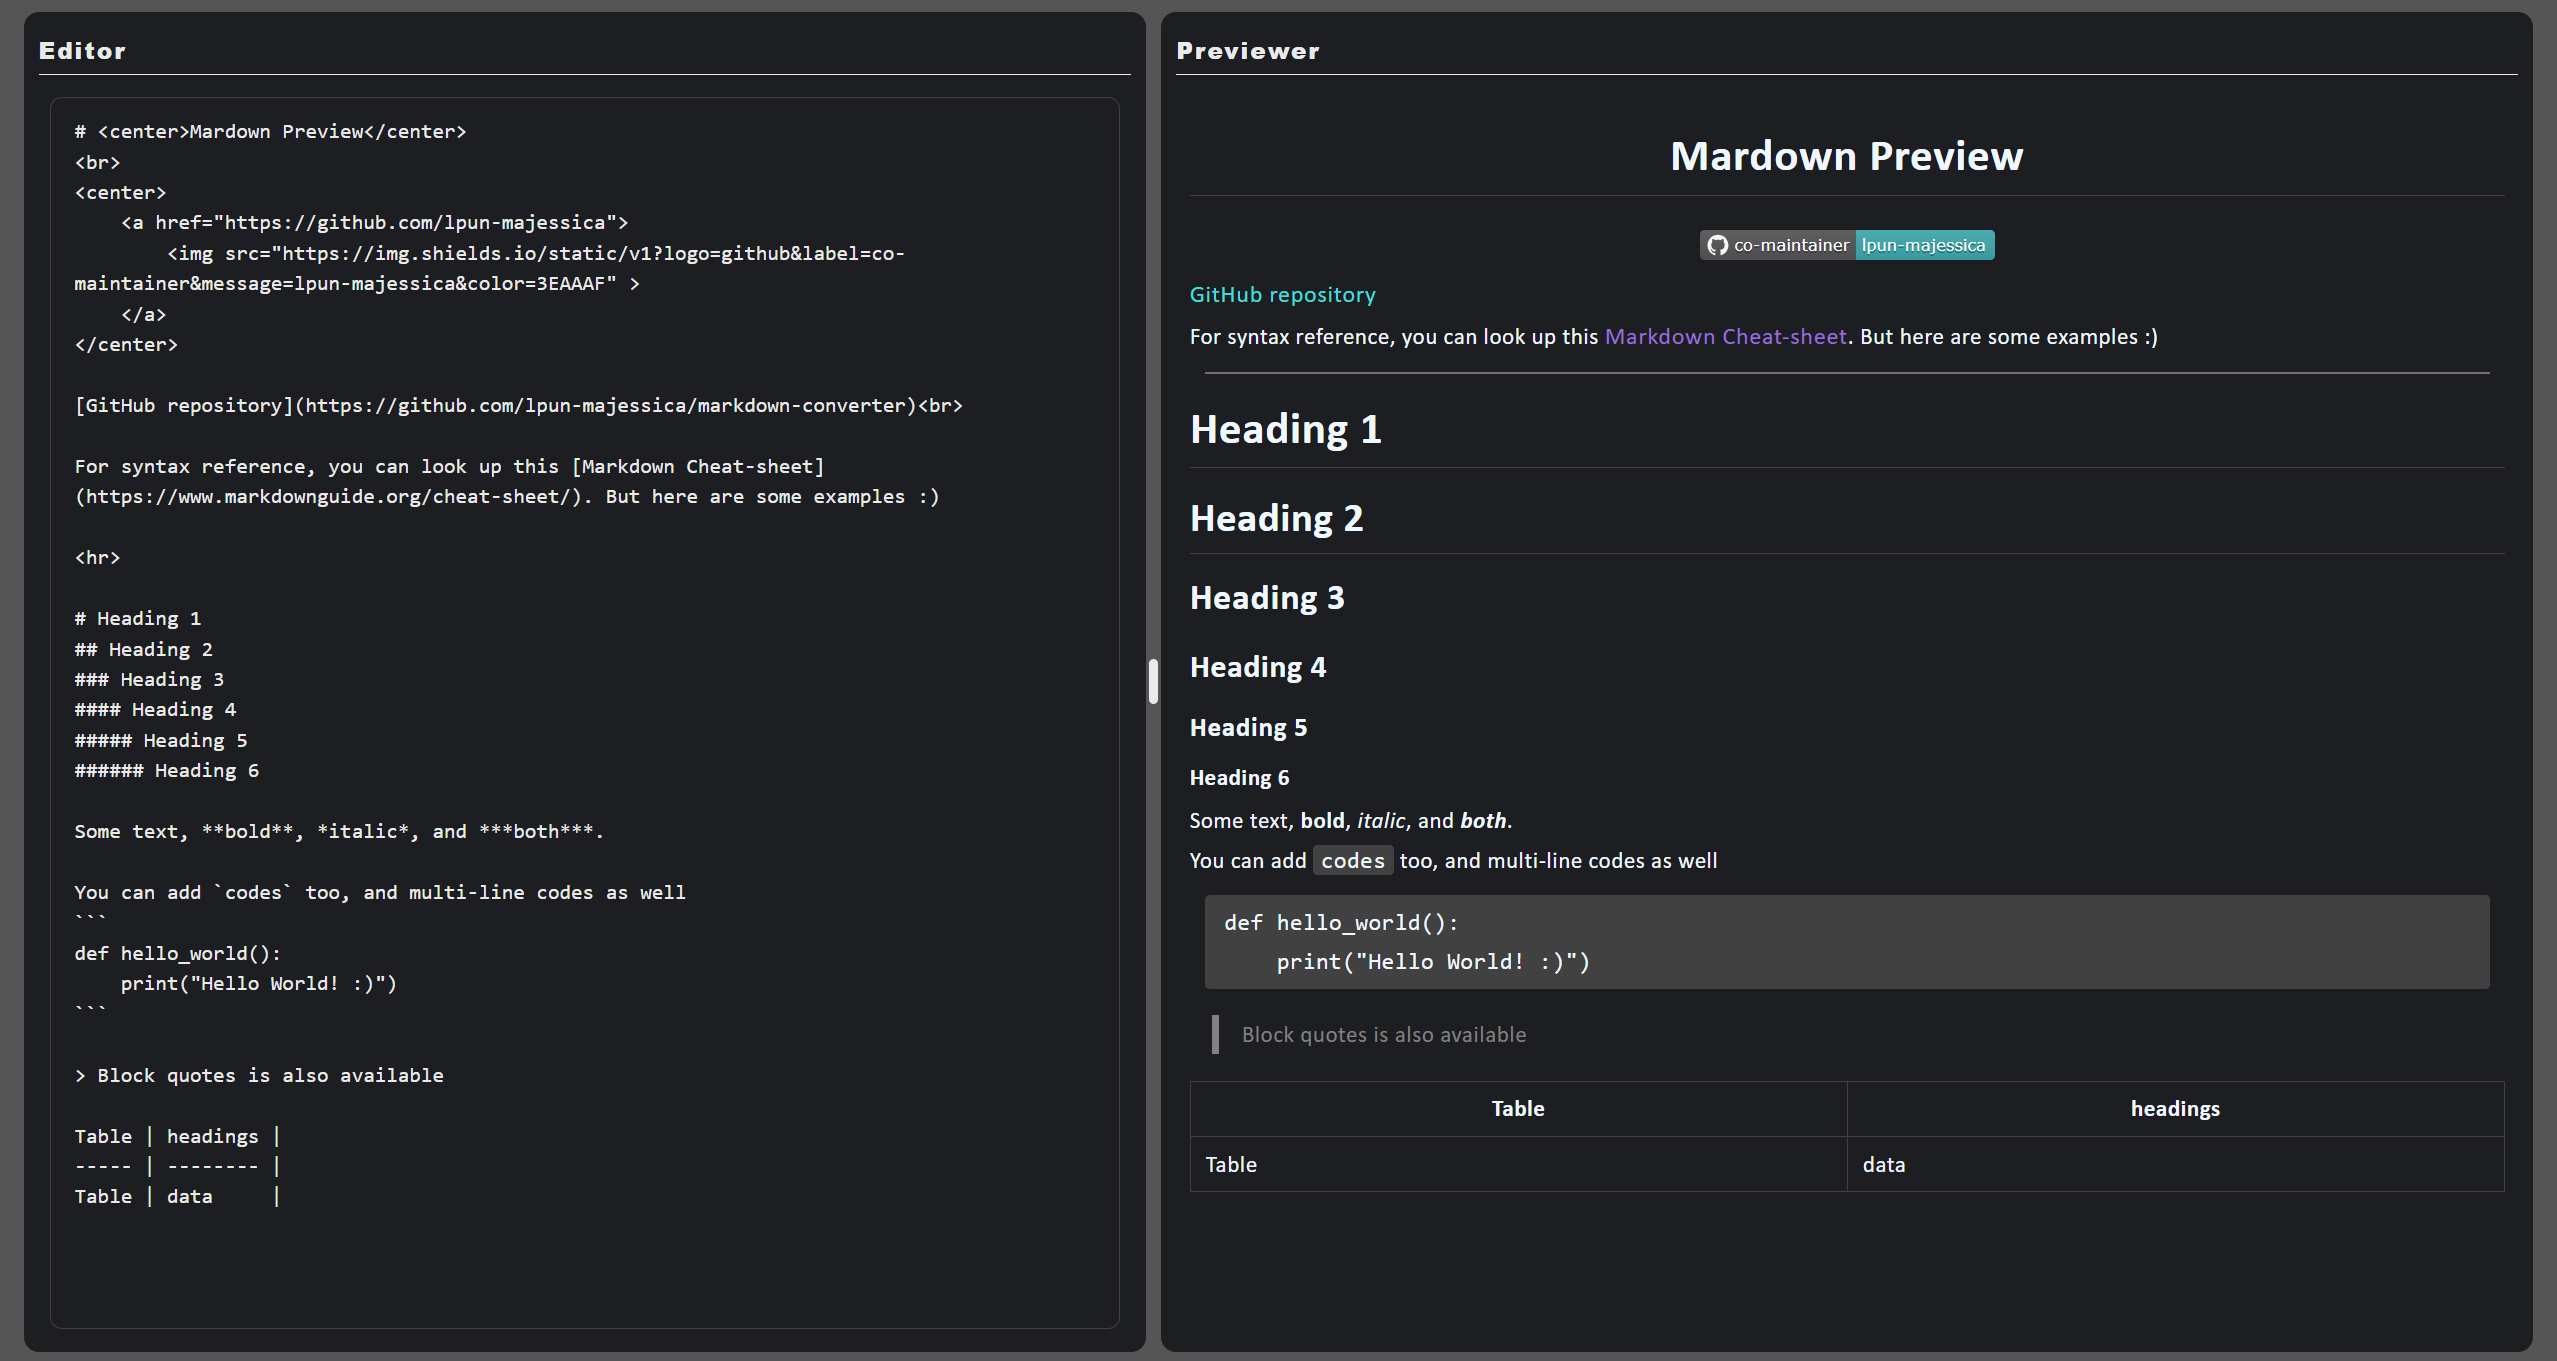
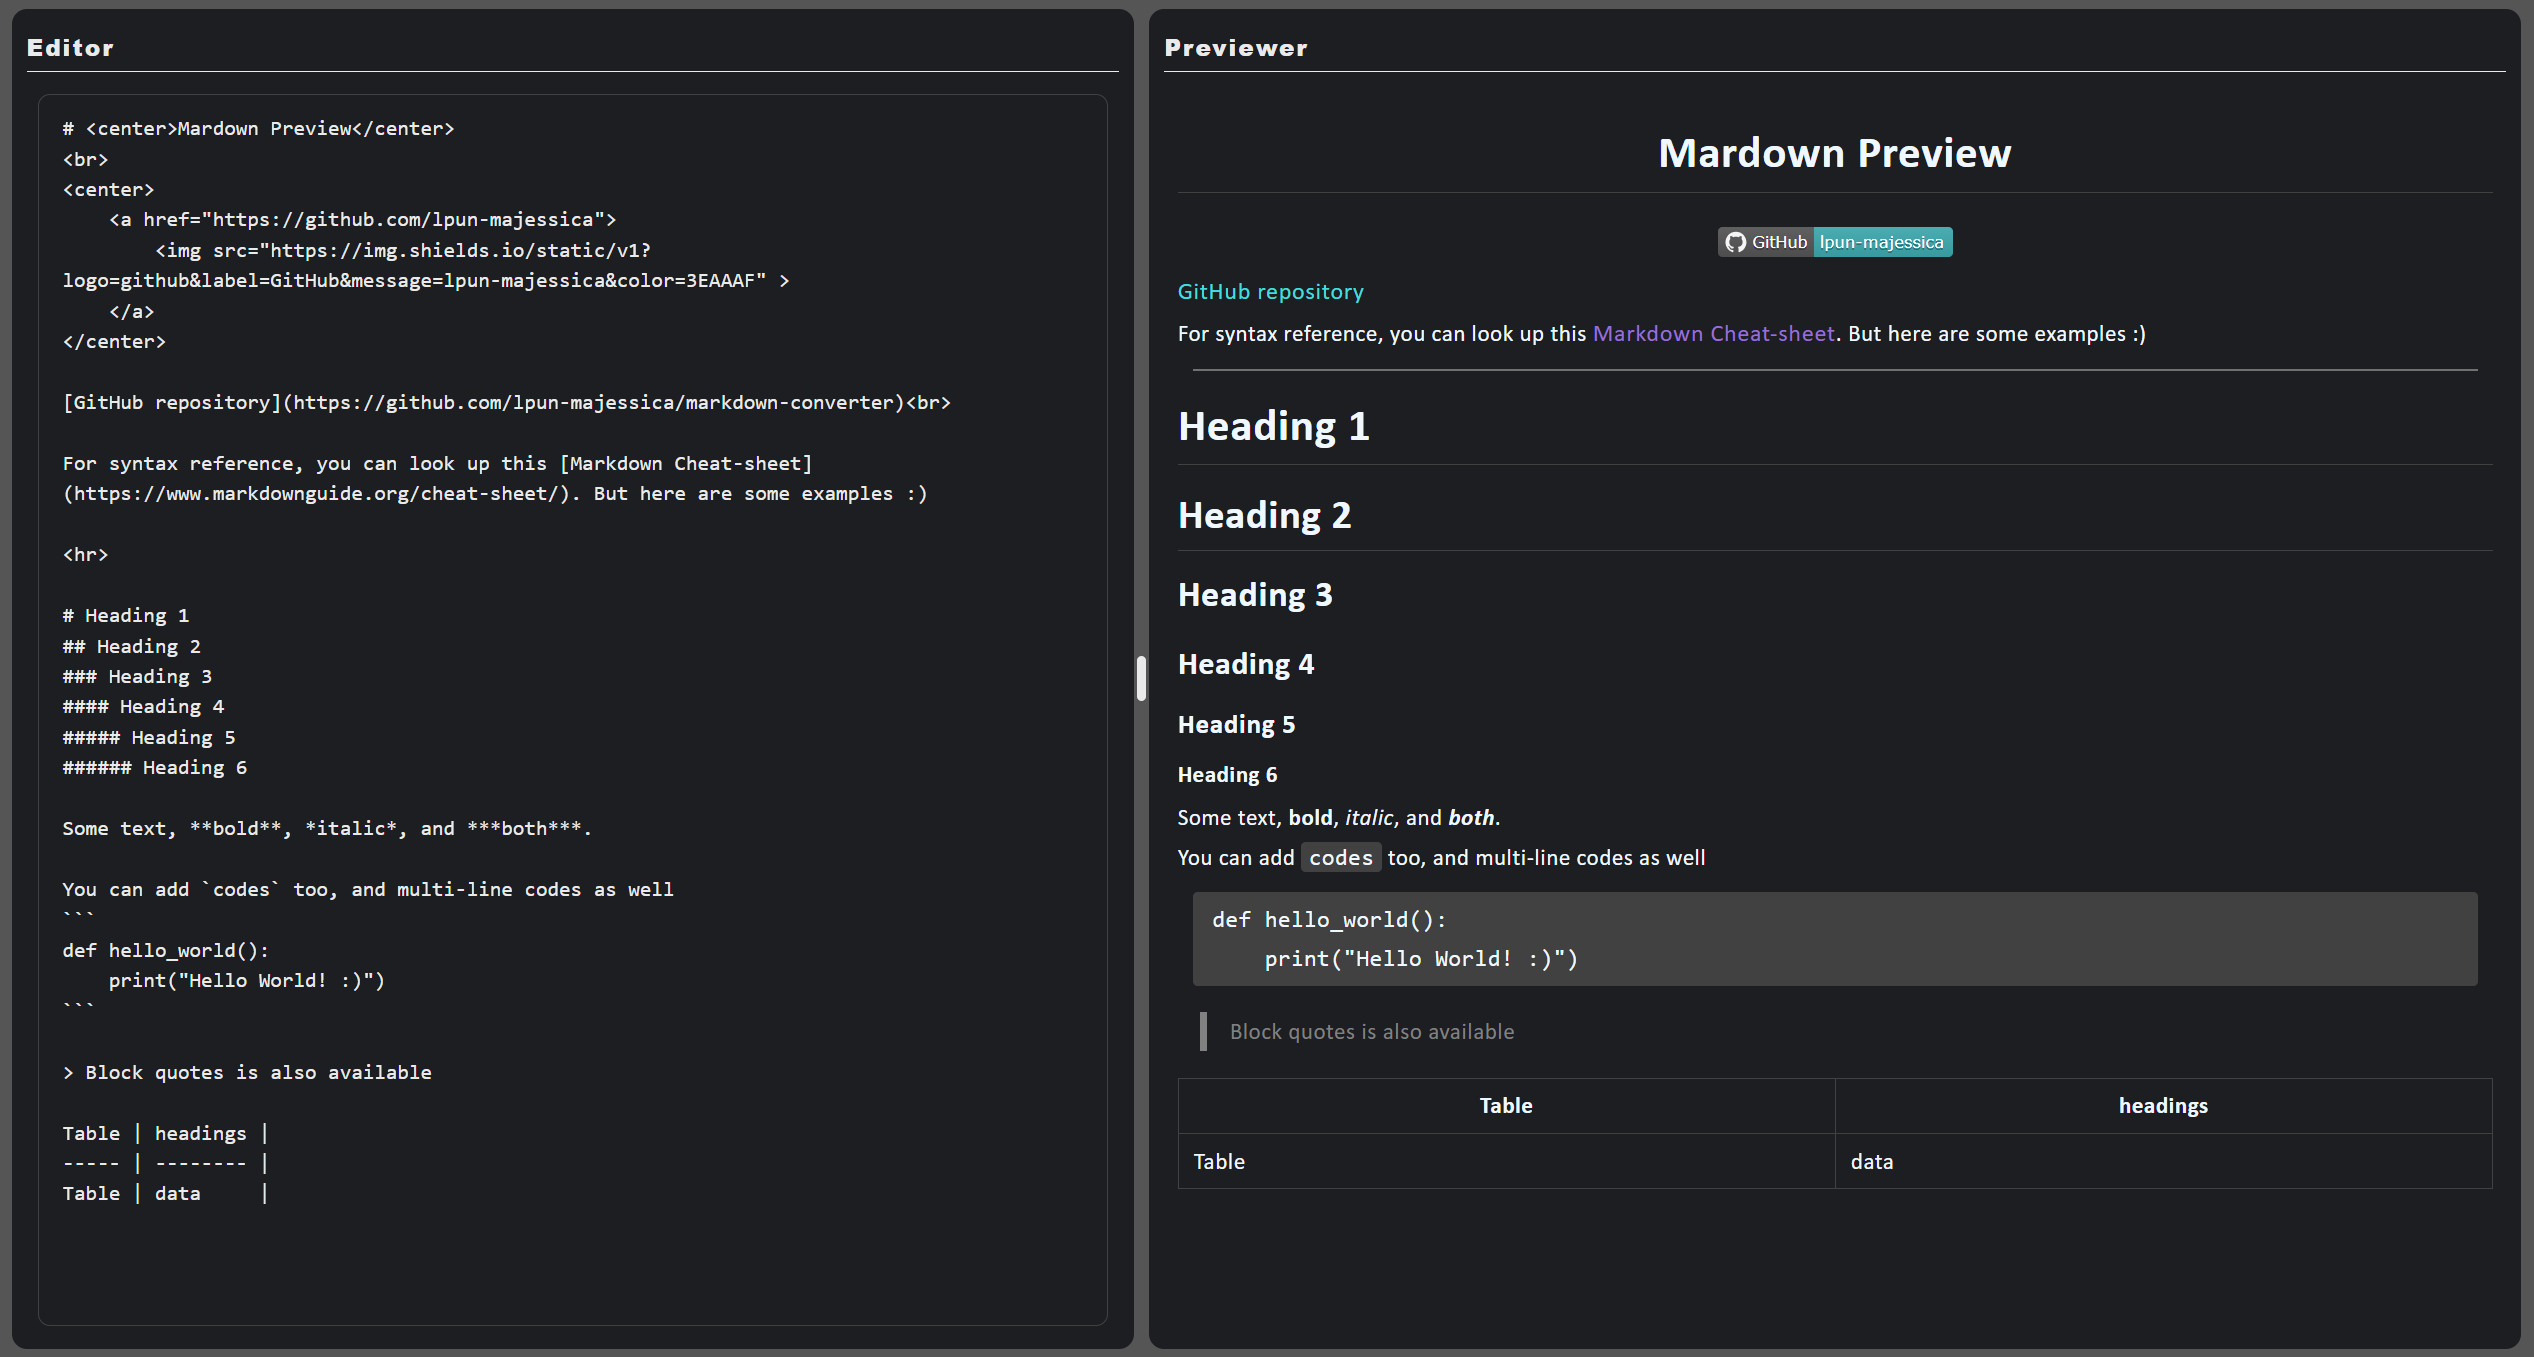
Updates

diff --git a/index.html b/index.html
@@ -5,7 +5,7 @@
 		<link rel="icon" type="image/x-icon" href="/markdown-preview/favicon.ico" />
 		<meta name="viewport" content="width=device-width, initial-scale=1.0" />
 		<title>Markdown Preview</title>
-		<script type="module" crossorigin src="/markdown-preview/assets/index-DwnMZU6h.js"></script>
+		<script type="module" crossorigin src="/markdown-preview/assets/index-DLdoaKko.js"></script>
 		<link rel="stylesheet" crossorigin href="/markdown-preview/assets/index-CPoJdQAk.css">
 	</head>
 	<body>

diff --git a/assets/index-DLdoaKko.js b/assets/index-DLdoaKko.js
@@ -50,7 +50,7 @@ Error generating stack: `+l.message+`
 <br>
 <center>
     <a href="https://github.com/lpun-majessica">
-        <img src="https://img.shields.io/static/v1?logo=github&label=co-maintainer&message=lpun-majessica&color=3EAAAF" >
+        <img src="https://img.shields.io/static/v1?logo=github&label=GitHub&message=lpun-majessica&color=3EAAAF" >
     </a>
 </center>
 
